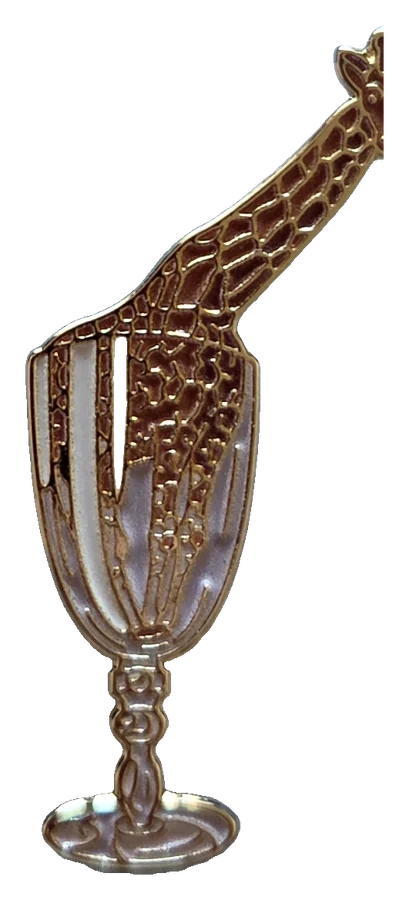
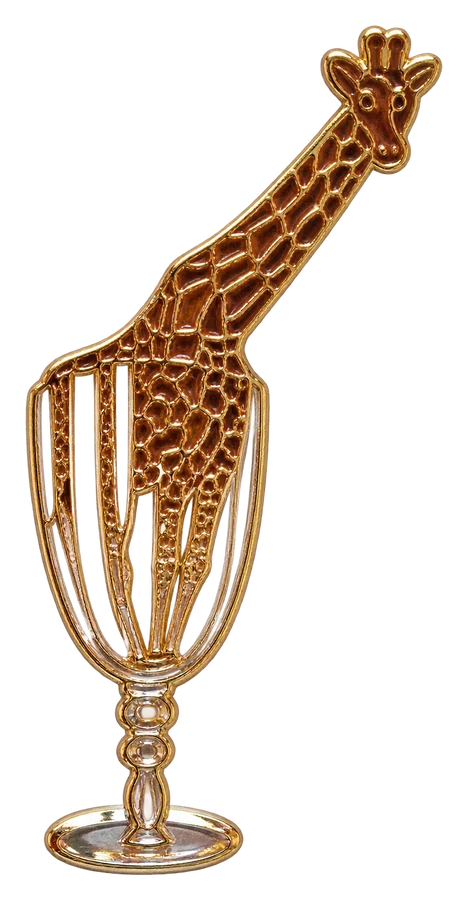
Belgie: nieuwe giraf-pin, volgorde kaart, vlag, dan Magritte

diff --git a/assets/magneten.js b/assets/magneten.js
@@ -7,6 +7,12 @@ const MAGNETEN = [
   "type": "aimant"
  },
  {
+  "img": "assets/magneten/belgie-pin-vlag.webp",
+  "land": "België",
+  "regio": "",
+  "type": "pin"
+ },
+ {
   "img": "assets/magneten/belgie-magritte-2.webp",
   "land": "België",
   "regio": "Magritte",
@@ -17,12 +23,6 @@ const MAGNETEN = [
   "land": "België",
   "regio": "Magritte",
   "type": "aimant"
- },
- {
-  "img": "assets/magneten/belgie-pin-vlag.webp",
-  "land": "België",
-  "regio": "",
-  "type": "pin"
  },
  {
   "img": "assets/magneten/belgie-magritte-pin.webp",

diff --git a/destinations.html b/destinations.html
@@ -234,7 +234,7 @@
 </footer>
 
 <script src="assets/destinations.js"></script>
-<script src="assets/magneten.js?v=1795279704"></script>
+<script src="assets/magneten.js?v=1795279995"></script>
 <script src="assets/nav.js"></script>
 <script>
   const nameFR = {
